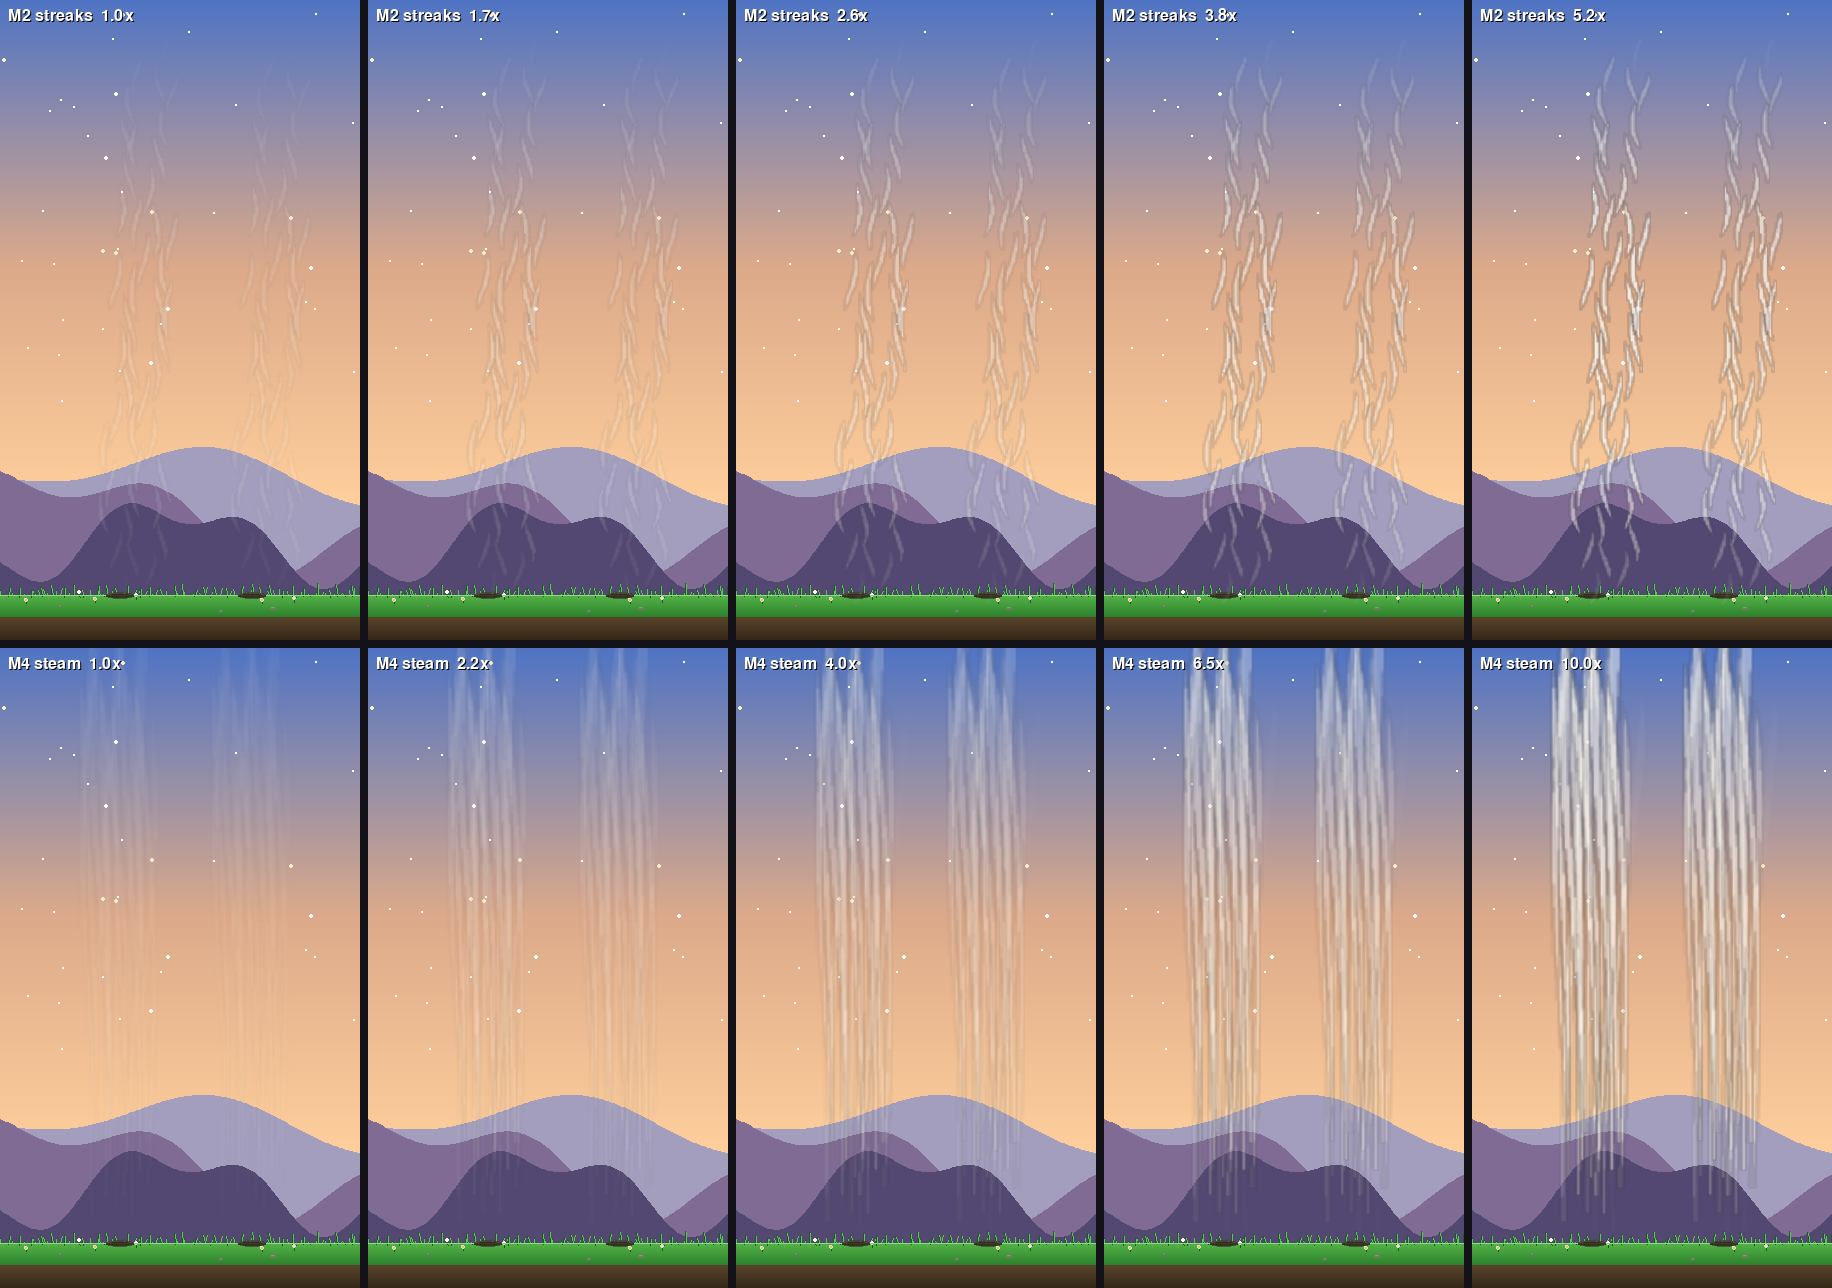
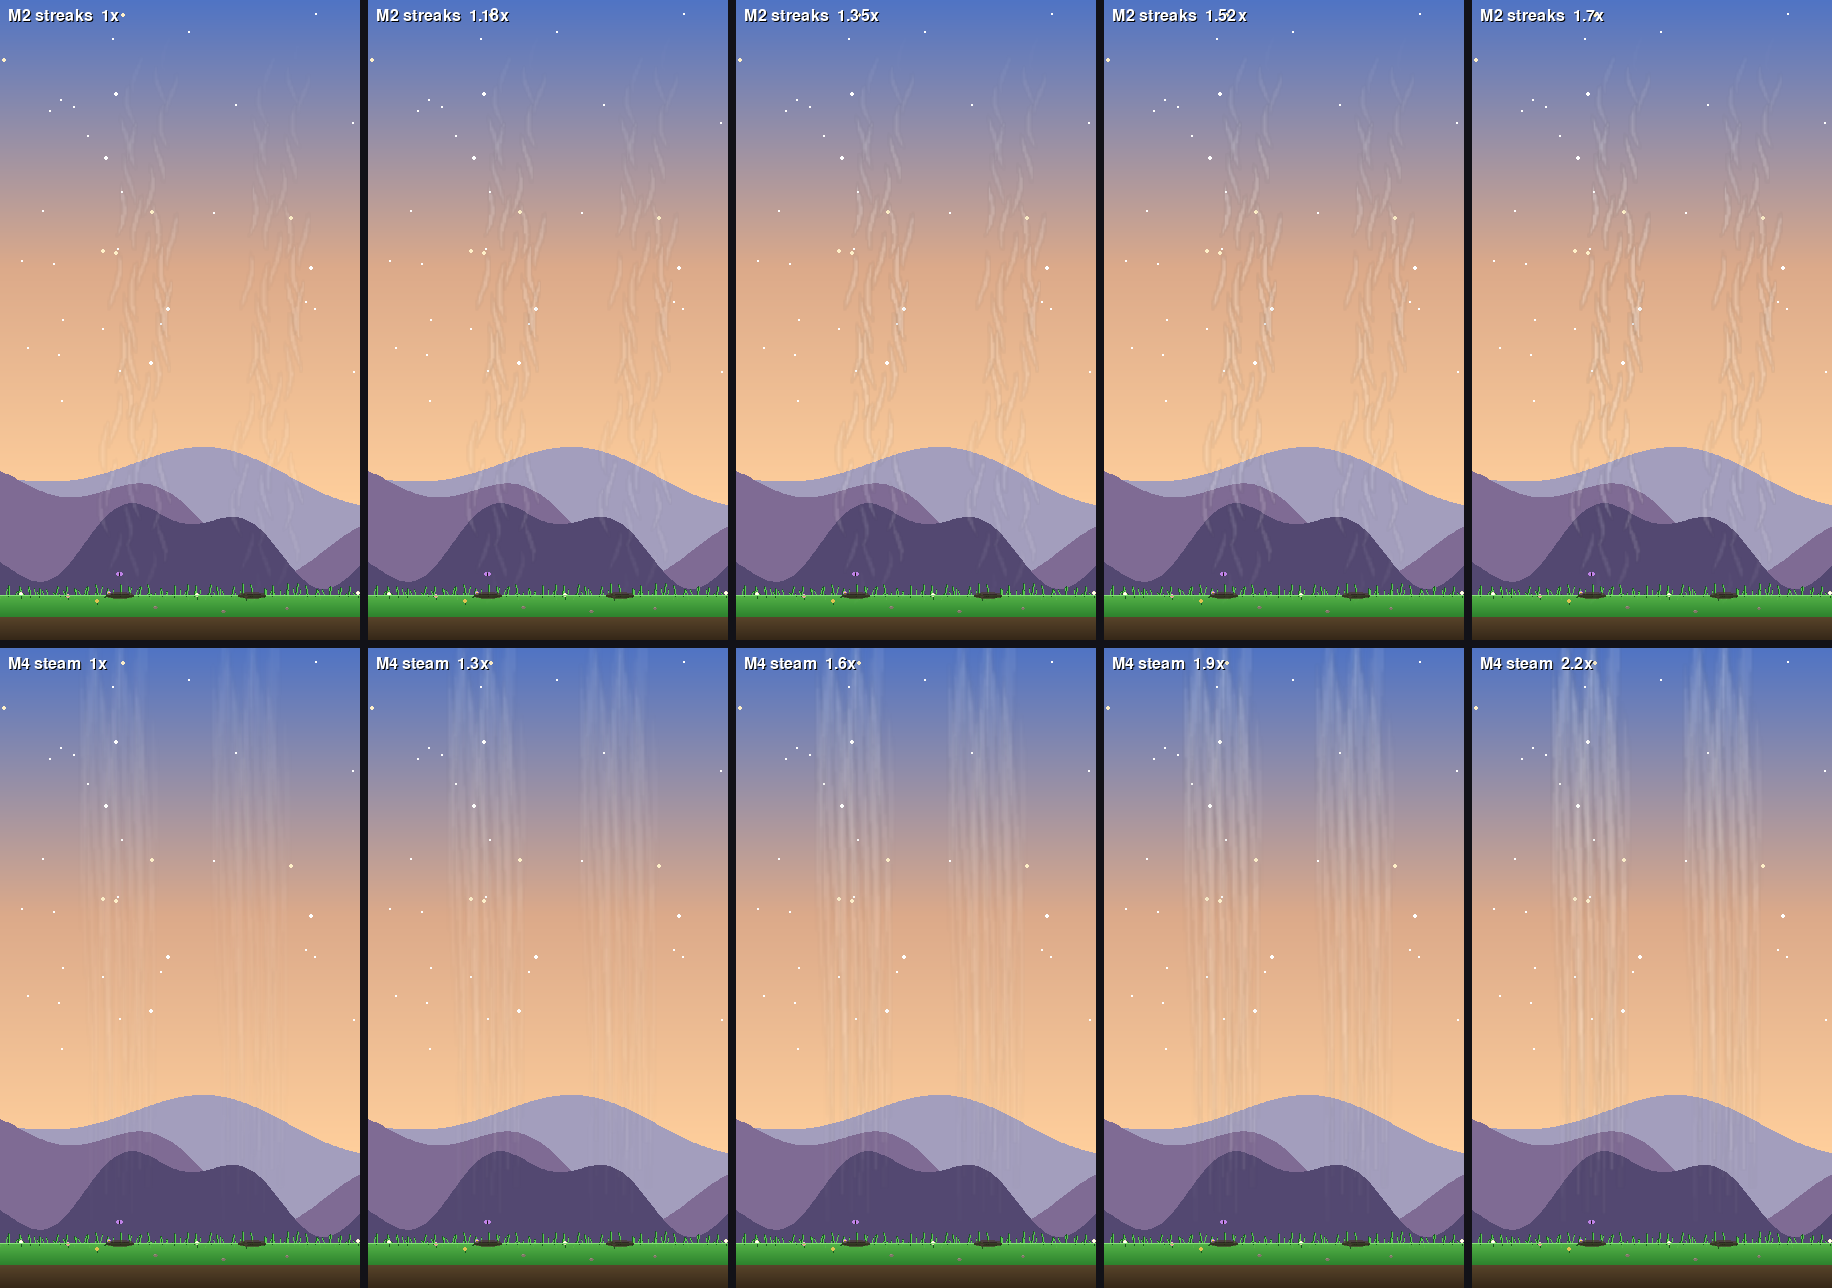
Narrow faintness sweep to lowest band (M2 1.0-1.7x, M4 1.0-2.2x)
Five even steps within the gap between the two faintest levels so the
final low-opacity pick can be dialed in precisely.

https://claude.ai/code/session_01JWYQYgqQbSfQKYb7zu7YPg

diff --git a/tools/sketch_geyser_faintness.py b/tools/sketch_geyser_faintness.py
@@ -34,8 +34,8 @@ OUT = os.path.join(ROOT, "docs", "screenshots", "geyser_windmotion",
                    "faintness_compare.png")
 
 ROWS = [
-    ("M2 streaks", render_streaks, (1.0, 1.7, 2.6, 3.8, 5.2)),
-    ("M4 steam", render_steam, (1.0, 2.2, 4.0, 6.5, 10.0)),
+    ("M2 streaks", render_streaks, (1.0, 1.175, 1.35, 1.525, 1.7)),
+    ("M4 steam", render_steam, (1.0, 1.3, 1.6, 1.9, 2.2)),
 ]
 
 
@@ -63,7 +63,7 @@ def main():
                       (18, 18, 24))
     for r, (name, fn, scales) in enumerate(ROWS):
         for c, scale in enumerate(scales):
-            label = "%s  %.1fx" % (name, scale)
+            label = "%s  %.3gx" % (name, scale)
             panel = _panel(base, font, fn, scale, label)
             sheet.paste(panel, (c * (W + gap), r * (H + gap)))
             print("rendered", label)
